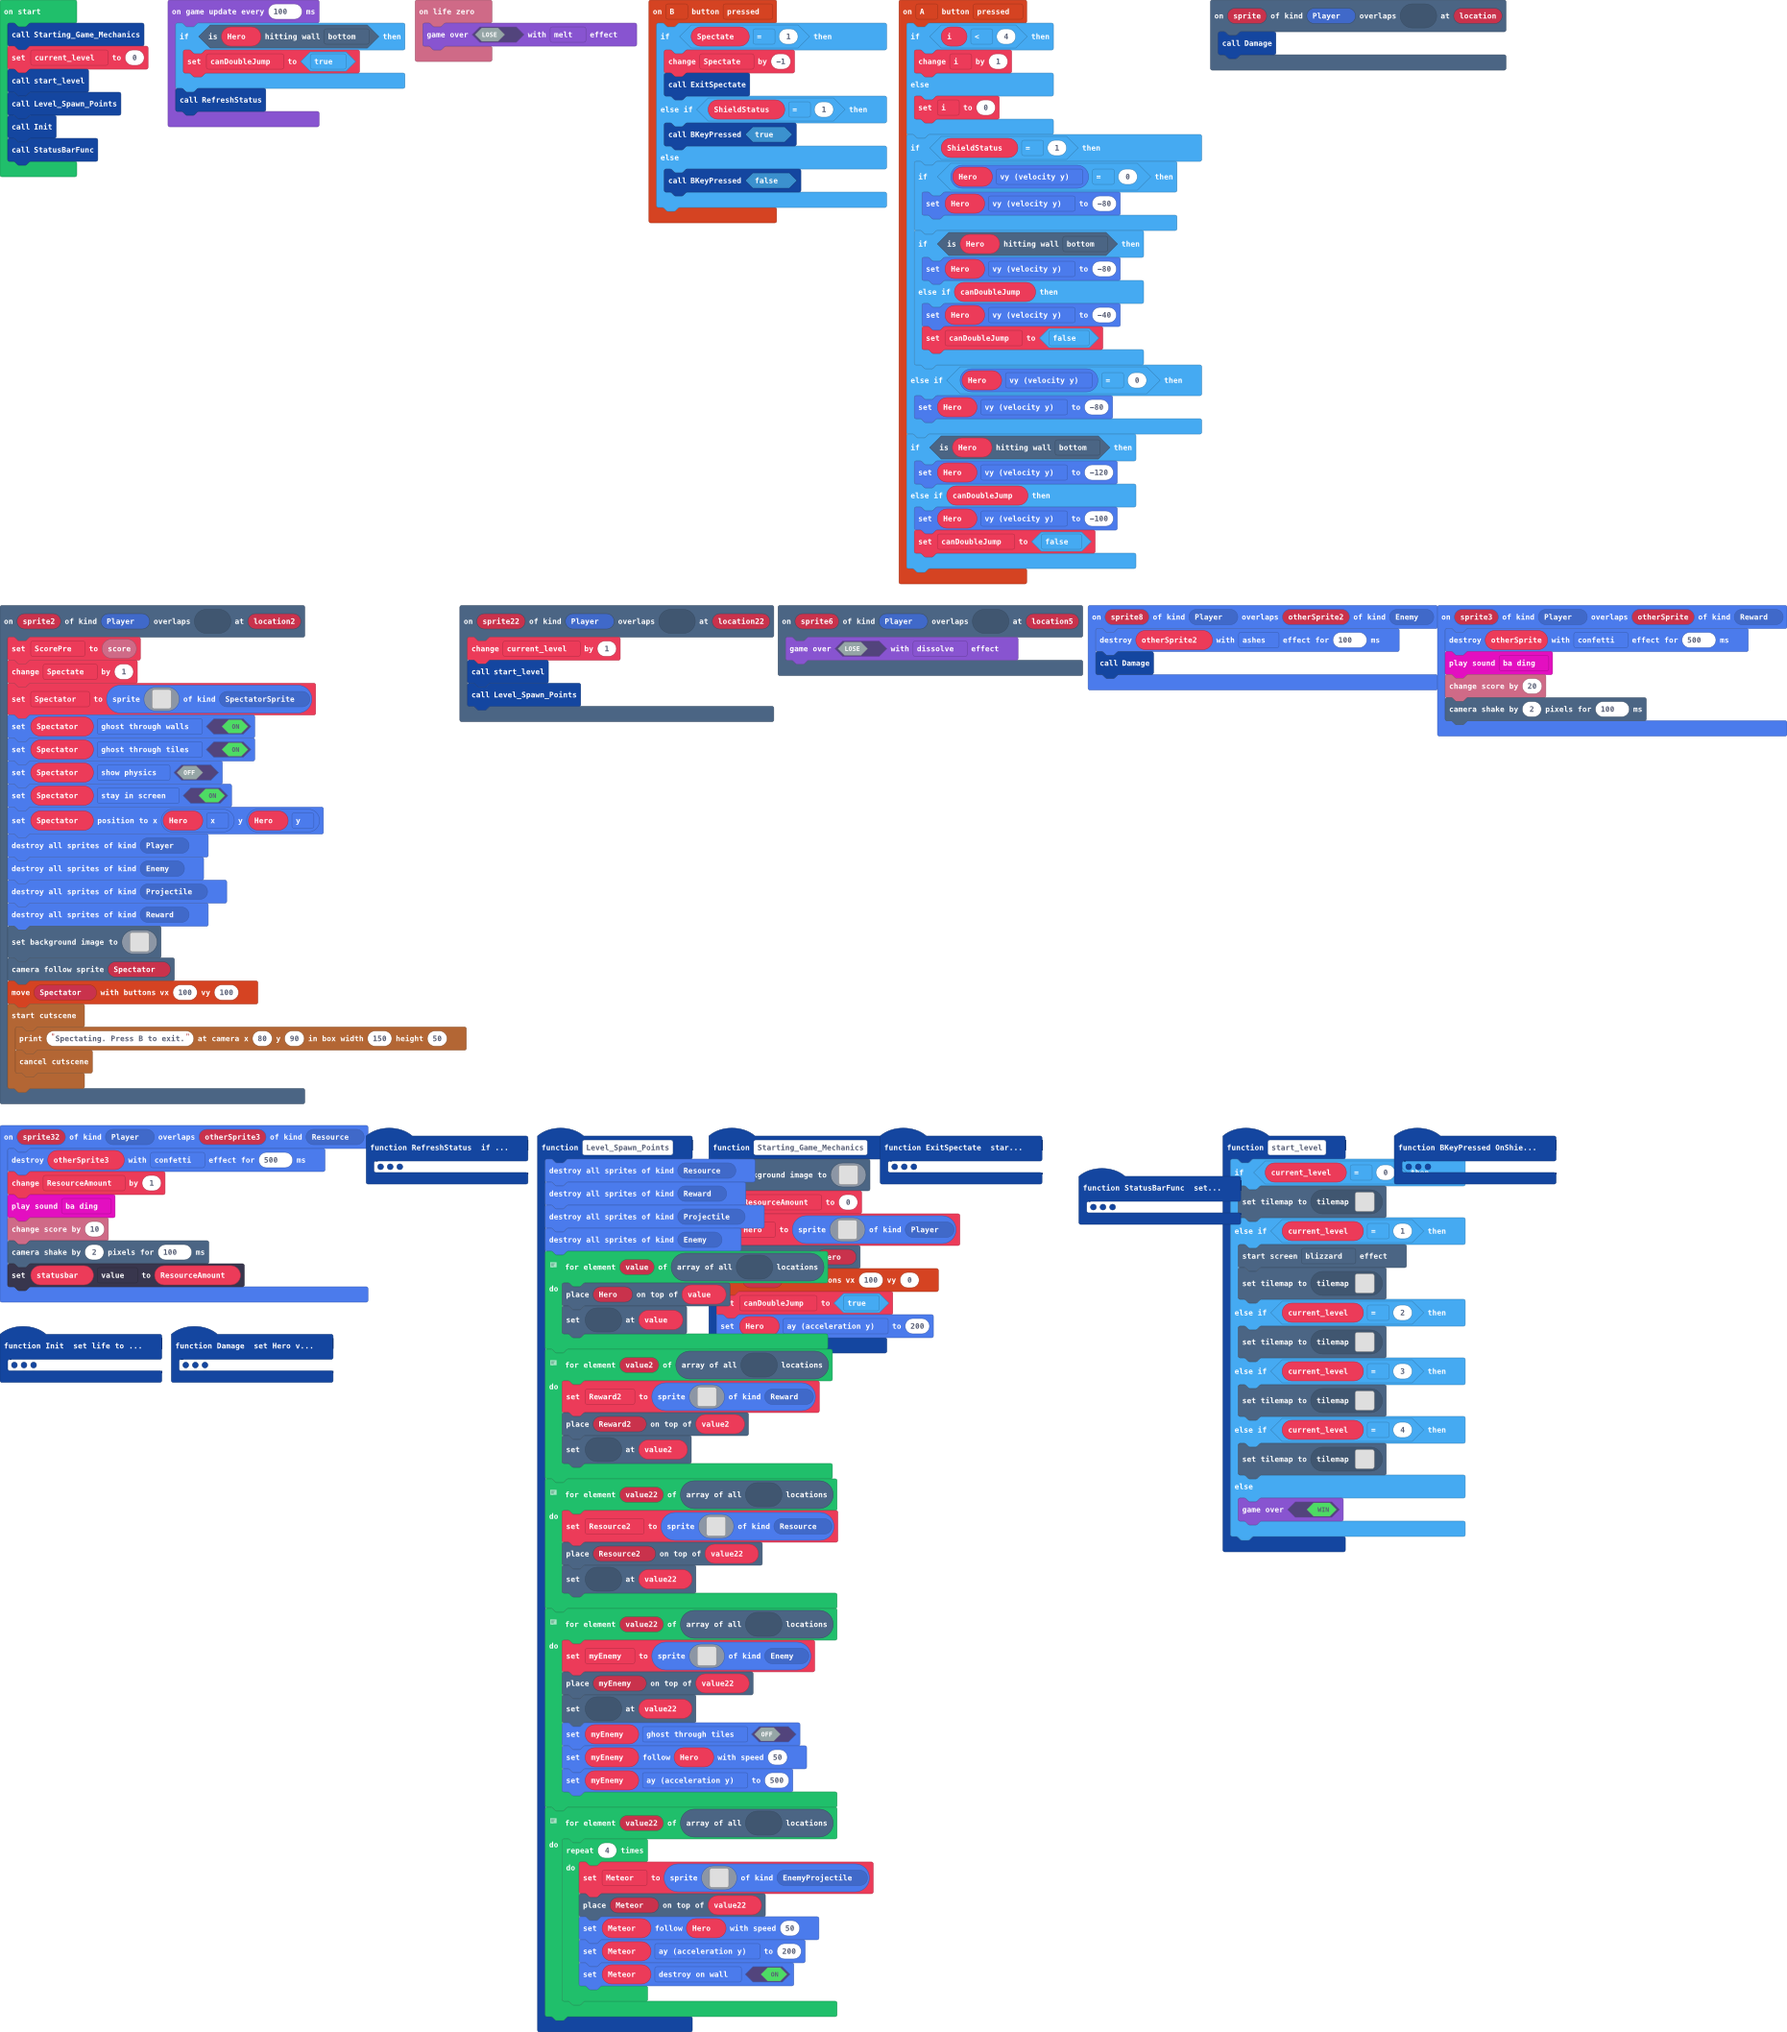
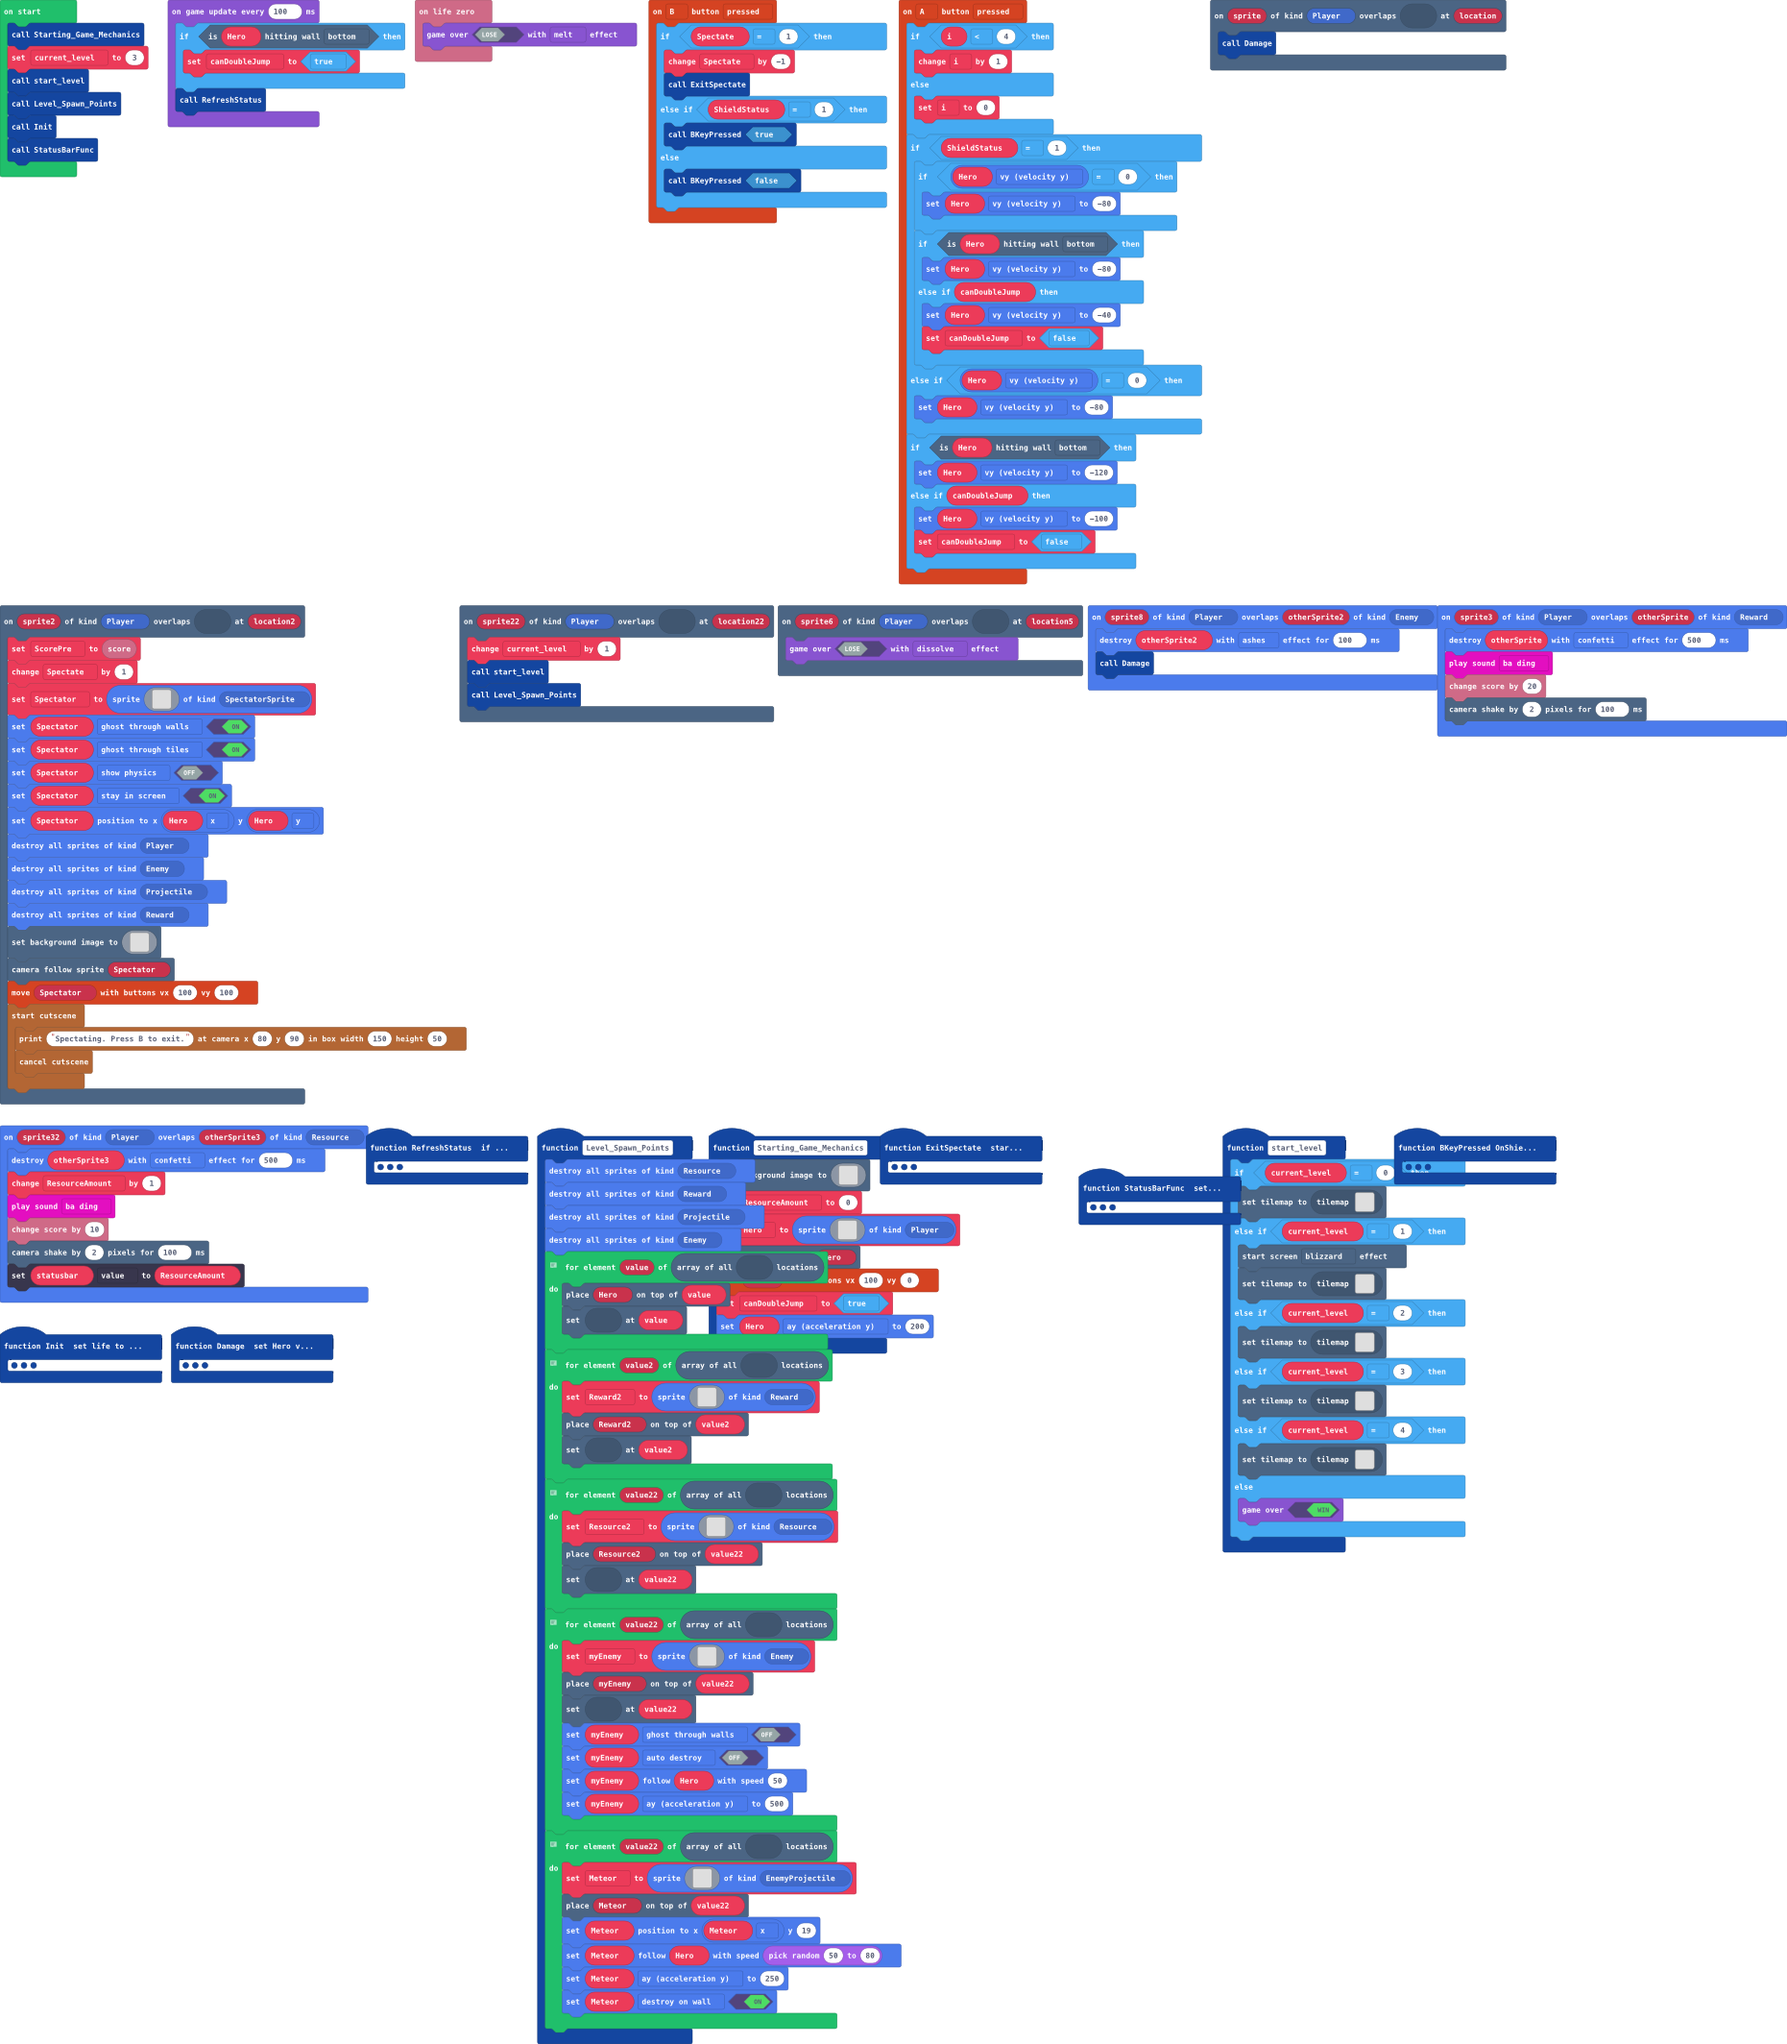
Update main.blocks, main.ts

diff --git a/main.ts b/main.ts
@@ -67,19 +67,19 @@ function Level_Spawn_Points () {
         myEnemy = sprites.create(assets.image`Enemy1`, SpriteKind.Enemy)
         tiles.placeOnTile(myEnemy, value22)
         tiles.setTileAt(value22, assets.tile`transparency16`)
-        myEnemy.setFlag(SpriteFlag.GhostThroughTiles, false)
+        myEnemy.setFlag(SpriteFlag.GhostThroughWalls, false)
+        myEnemy.setFlag(SpriteFlag.AutoDestroy, false)
         myEnemy.follow(Hero, 50)
         myEnemy.ay = 500
     }
     // This is a spawn point for rewards. This tile will be replaced by your reward sprite. The art should be replaced with yours.
     for (let value22 of tiles.getTilesByType(assets.tile`myTile26`)) {
-        for (let index = 0; index < 4; index++) {
-            Meteor = sprites.create(assets.image`myImage9`, SpriteKind.EnemyProjectile)
-            tiles.placeOnTile(Meteor, value22)
-            Meteor.follow(Hero, 50)
-            Meteor.ay = 200
-            Meteor.setFlag(SpriteFlag.DestroyOnWall, true)
-        }
+        Meteor = sprites.create(assets.image`myImage9`, SpriteKind.EnemyProjectile)
+        tiles.placeOnTile(Meteor, value22)
+        Meteor.setPosition(Meteor.x, 19)
+        Meteor.follow(Hero, randint(50, 80))
+        Meteor.ay = 250
+        Meteor.setFlag(SpriteFlag.DestroyOnWall, true)
     }
 }
 function Starting_Game_Mechanics () {
@@ -641,7 +641,7 @@ let ShieldStatus = 0
 let Spectate = 0
 let current_level = 0
 Starting_Game_Mechanics()
-current_level = 0
+current_level = 3
 start_level()
 Level_Spawn_Points()
 Init()
